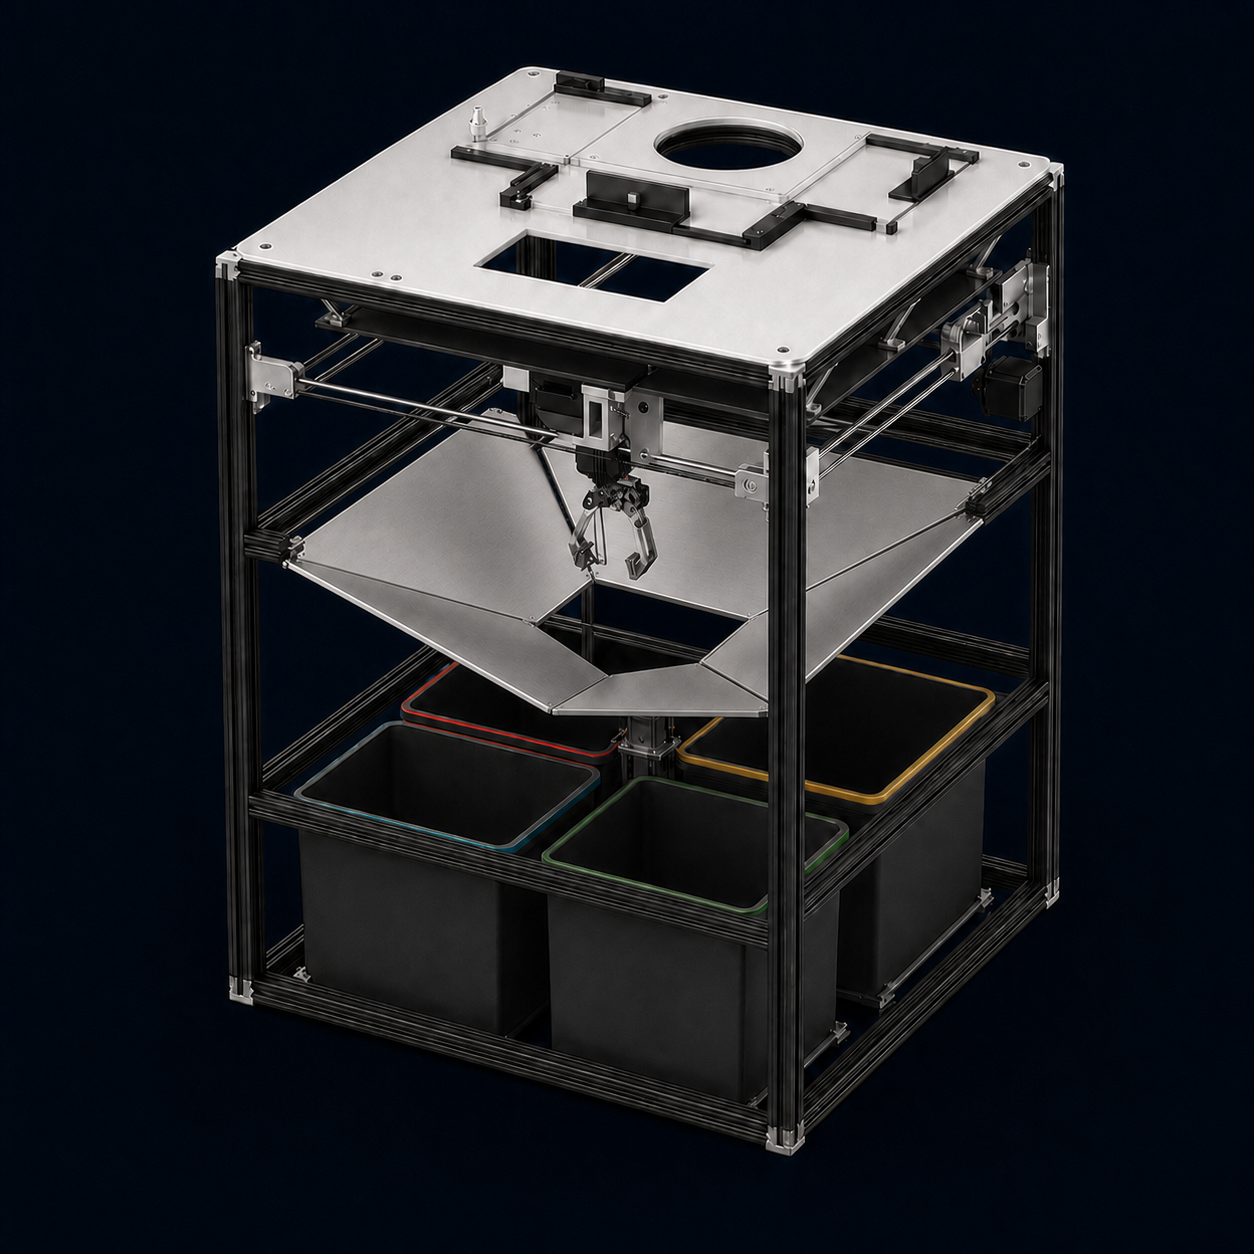
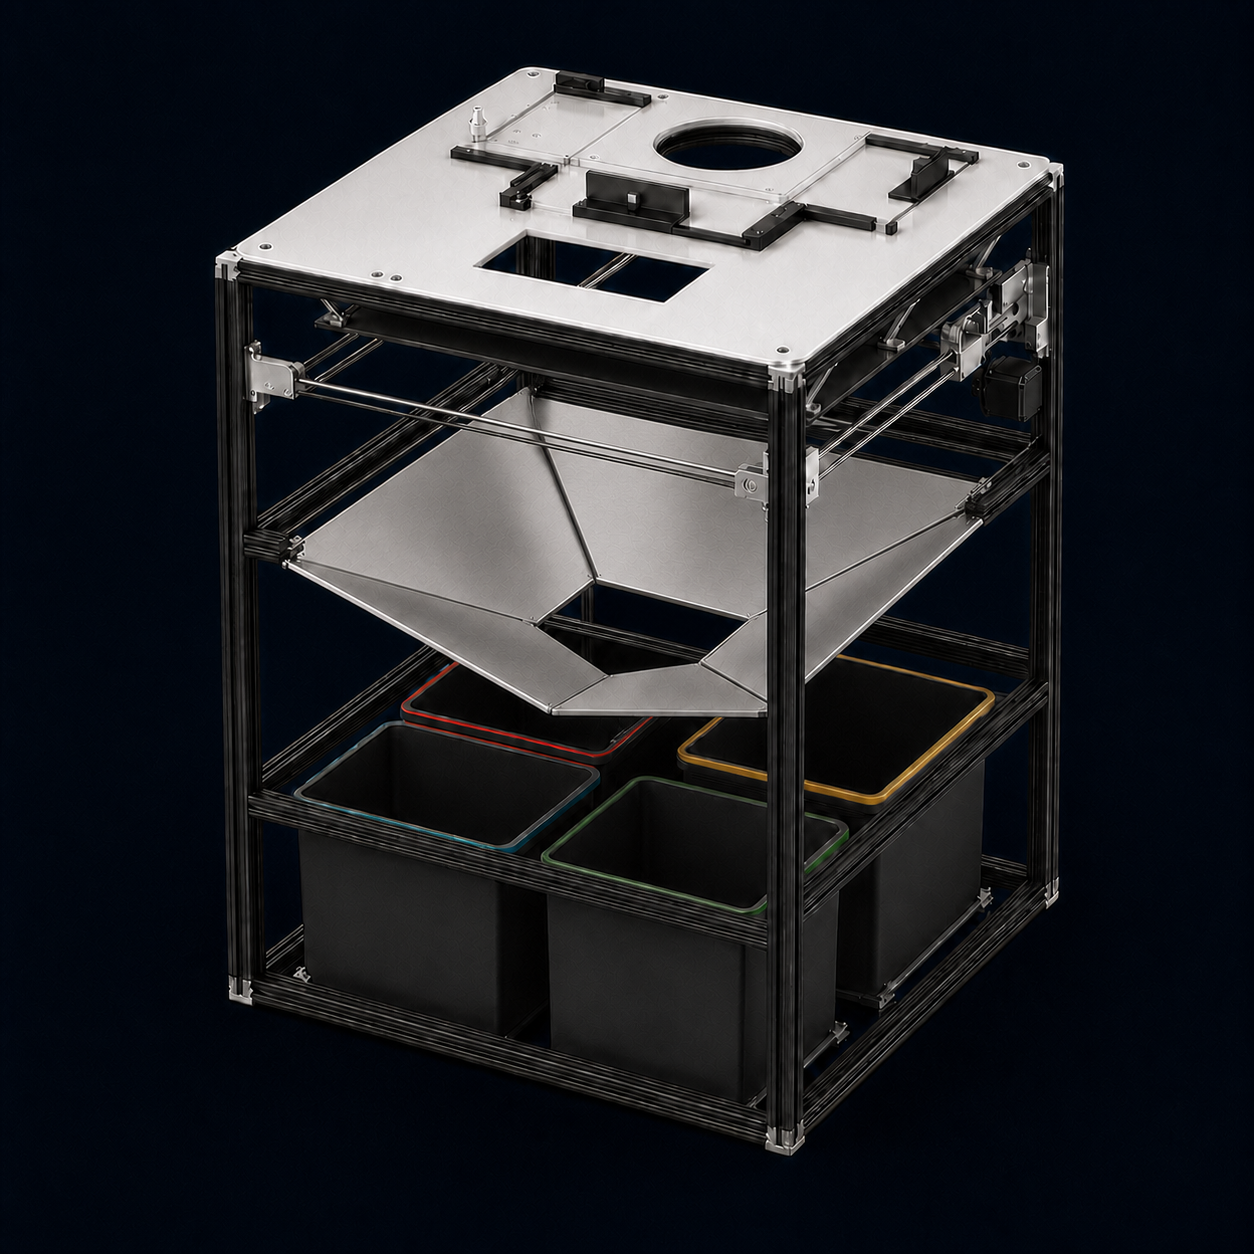
feat: update waste adapter fetch logic and enhance drawing functions for robot components

diff --git a/src/components/SortingWorkflowPlayer.vue b/src/components/SortingWorkflowPlayer.vue
@@ -239,7 +239,7 @@ async function loadWasteAdapter() {
     return
   }
   try {
-    const response = await fetch(props.wasteConfigSrc)
+    const response = await fetch(props.wasteConfigSrc, { cache: 'no-store' })
     if (!response.ok) throw new Error(`Waste adapter HTTP ${response.status}`)
     const config = await response.json()
     const adapter = resolveWasteAdapter(config)
@@ -377,6 +377,40 @@ function drawTaskObjectHeld(ctx, rotations, robotLeft, robotTop, robotScale) {
   ctx.restore()
 }
 
+const LEFT_ELBOW_SOCKET_RECT = [180, 263, 73, 39]
+const LEFT_ELBOW_CAP_RECT = [180, 289, 73, 59]
+const LEFT_JOINT_SOCKET_RECT = [168, 261, 82, 47]
+const LEFT_JOINT_CAP_RECT = [168, 289, 82, 59]
+
+function drawLeftElbowBridge(ctx, rotations, robotLeft, robotTop, robotScale) {
+  ctx.save()
+  ctx.translate(robotLeft, robotTop)
+  ctx.scale(robotScale, robotScale)
+  applyRotations(ctx, rotations)
+  ctx.translate(217, 318)
+  ctx.rotate(-.45)
+  const shellGradient = ctx.createLinearGradient(-30, -17, 28, 16)
+  shellGradient.addColorStop(0, 'rgba(246,248,248,.94)')
+  shellGradient.addColorStop(.42, 'rgba(203,208,209,.95)')
+  shellGradient.addColorStop(.72, 'rgba(132,139,142,.92)')
+  shellGradient.addColorStop(1, 'rgba(73,80,84,.86)')
+  ctx.fillStyle = shellGradient
+  ctx.beginPath()
+  ctx.ellipse(0, 0, 30, 19, 0, 0, Math.PI * 2)
+  ctx.fill()
+
+  const rimGradient = ctx.createLinearGradient(-24, -13, 22, 13)
+  rimGradient.addColorStop(0, 'rgba(255,255,255,.42)')
+  rimGradient.addColorStop(.48, 'rgba(255,255,255,.12)')
+  rimGradient.addColorStop(1, 'rgba(20,26,30,.3)')
+  ctx.strokeStyle = rimGradient
+  ctx.lineWidth = 2
+  ctx.beginPath()
+  ctx.ellipse(0, 0, 28, 17, 0, 0, Math.PI * 2)
+  ctx.stroke()
+  ctx.restore()
+}
+
 function drawRobot(ctx, pose, width, height, groundY) {
   const robotHeight = height * .72
   const robotScale = robotHeight / rig.sourceSize.height
@@ -399,14 +433,17 @@ function drawRobot(ctx, pose, width, height, groundY) {
   drawLayer(ctx, 'rightLowerArmHand', [waist, rightShoulder, rightElbow], robotLeft, robotTop, robotScale)
   drawLayer(ctx, 'leftUpperArm', [waist, leftShoulder], robotLeft, robotTop, robotScale)
   drawLayer(ctx, 'leftLowerEmptyHand', leftLower, robotLeft, robotTop, robotScale)
+  drawLeftElbowBridge(ctx, leftLower, robotLeft, robotTop, robotScale)
   if (pose.holdBottle) {
     if (props.dynamicObject) drawTaskObjectHeld(ctx, leftLower, robotLeft, robotTop, robotScale)
     else drawLayer(ctx, 'bottle', leftLower, robotLeft, robotTop, robotScale)
   }
   drawLayer(ctx, 'rightShoulderCover', [waist], robotLeft, robotTop, robotScale)
   drawLayer(ctx, 'leftShoulderCover', [waist], robotLeft, robotTop, robotScale)
-  drawLayer(ctx, 'leftElbowCover', leftLower, robotLeft, robotTop, robotScale)
-  drawLayer(ctx, 'leftJointCleanup', leftLower, robotLeft, robotTop, robotScale)
+  drawLayer(ctx, 'leftElbowCover', [waist, leftShoulder], robotLeft, robotTop, robotScale, LEFT_ELBOW_SOCKET_RECT)
+  drawLayer(ctx, 'leftJointCleanup', [waist, leftShoulder], robotLeft, robotTop, robotScale, LEFT_JOINT_SOCKET_RECT)
+  drawLayer(ctx, 'leftElbowCover', leftLower, robotLeft, robotTop, robotScale, LEFT_ELBOW_CAP_RECT)
+  drawLayer(ctx, 'leftJointCleanup', leftLower, robotLeft, robotTop, robotScale, LEFT_JOINT_CAP_RECT)
   drawLayer(ctx, 'sockets', [waist], robotLeft, robotTop, robotScale)
   drawLayer(ctx, 'bodyRightCover', [waist], robotLeft, robotTop, robotScale)
   return { robotScale, robotX, robotTop }
@@ -564,12 +601,15 @@ function drawRobotActor(ctx, pose, geometry, drawObject) {
   drawLayer(ctx, 'rightLowerArmHand', [waist, rightShoulder, rightElbow], robotLeft, robotTop, robotScale)
   drawLayer(ctx, 'leftUpperArm', [waist, leftShoulder], robotLeft, robotTop, robotScale)
   drawLayer(ctx, 'leftLowerEmptyHand', leftLower, robotLeft, robotTop, robotScale)
+  drawLeftElbowBridge(ctx, leftLower, robotLeft, robotTop, robotScale)
   if (props.dynamicObject) drawObject?.()
   else if (pose.holdBottle) drawLayer(ctx, 'bottle', leftLower, robotLeft, robotTop, robotScale)
   drawLayer(ctx, 'rightShoulderCover', [waist], robotLeft, robotTop, robotScale)
   drawLayer(ctx, 'leftShoulderCover', [waist], robotLeft, robotTop, robotScale)
-  drawLayer(ctx, 'leftElbowCover', leftLower, robotLeft, robotTop, robotScale)
-  drawLayer(ctx, 'leftJointCleanup', leftLower, robotLeft, robotTop, robotScale)
+  drawLayer(ctx, 'leftElbowCover', [waist, leftShoulder], robotLeft, robotTop, robotScale, LEFT_ELBOW_SOCKET_RECT)
+  drawLayer(ctx, 'leftJointCleanup', [waist, leftShoulder], robotLeft, robotTop, robotScale, LEFT_JOINT_SOCKET_RECT)
+  drawLayer(ctx, 'leftElbowCover', leftLower, robotLeft, robotTop, robotScale, LEFT_ELBOW_CAP_RECT)
+  drawLayer(ctx, 'leftJointCleanup', leftLower, robotLeft, robotTop, robotScale, LEFT_JOINT_CAP_RECT)
   drawLayer(ctx, 'sockets', [waist], robotLeft, robotTop, robotScale)
   drawLayer(ctx, 'bodyRightCover', [waist], robotLeft, robotTop, robotScale)
 }
@@ -620,22 +660,122 @@ function drawTaskObjectActor(ctx, state) {
   ctx.restore()
 }
 
-function drawGroundShadow(ctx, x, y, width, height, opacity) {
+const LOCAL_GROUND_SHADOW_PROFILES = {
+  robot: {
+    baseOpacity: .22,
+    widthScale: 1.66,
+    minHeightRatio: .32,
+    heightScale: 1.05,
+    offsetRatioX: .38,
+    offsetRatioY: -.02,
+    rotation: 24,
+    skew: -10,
+    blur: 6.2,
+    mainStops: [.84, .54, .24, .07],
+    secondaryStops: [.3, .1],
+    contactWidthRatio: .24,
+    contactHeightRatio: .04,
+    contactOffsetRatioX: .07,
+    contactBlur: 1.7,
+    contactStops: [.18, .06]
+  },
+  bin: {
+    baseOpacity: .2,
+    widthScale: 1.08,
+    minHeightRatio: .2,
+    heightScale: .95,
+    offsetRatioX: .22,
+    offsetRatioY: -.03,
+    rotation: 21,
+    skew: -8,
+    blur: 4.2,
+    mainStops: [.54, .31, .12, .04],
+    secondaryStops: [.2, .07],
+    contactWidthRatio: .3,
+    contactHeightRatio: .04,
+    contactOffsetRatioX: .055,
+    contactBlur: 1.5,
+    contactStops: [.2, .06]
+  },
+  waste: {
+    baseOpacity: .18,
+    widthScale: .86,
+    minHeightRatio: .24,
+    heightScale: .95,
+    offsetRatioX: .16,
+    offsetRatioY: -.04,
+    rotation: 22,
+    skew: -8,
+    blur: 3.4,
+    mainStops: [.36, .19, .07, .025],
+    secondaryStops: [.11, .04],
+    contactWidthRatio: .28,
+    contactHeightRatio: .07,
+    contactOffsetRatioX: .04,
+    contactBlur: 1.1,
+    contactStops: [.16, .045]
+  }
+}
+
+function drawGroundShadow(ctx, x, y, width, height, opacity, profileKey = 'robot') {
+  if (!opacity || opacity <= 0) return
   const localShadow = LOCAL_VISUAL.shadow
+  const profile = LOCAL_GROUND_SHADOW_PROFILES[profileKey] || LOCAL_GROUND_SHADOW_PROFILES.robot
+  const alphaScale = Math.max(0, Math.min(1, opacity / Math.max(.001, profile.baseOpacity)))
+  const shadowWidth = Math.max(1, width * profile.widthScale)
+  const shadowHeight = Math.max(1, height * profile.heightScale, width * profile.minHeightRatio)
+  const alpha = value => Math.max(0, Math.min(1, value * alphaScale))
+  const rotate = profile.rotation * Math.PI / 180
+  const skew = Math.tan(profile.skew * Math.PI / 180)
   ctx.save()
-  ctx.translate(x + localShadow.offsetX, y + localShadow.offsetY)
-  ctx.scale(Math.max(1, width / 2), Math.max(1, height / 2))
-  const gradient = ctx.createRadialGradient(-.18, -.18, .08, 0, 0, 1)
-  gradient.addColorStop(0, `rgba(0,17,29,${Math.min(.34, opacity * 1.2)})`)
-  gradient.addColorStop(.48, `rgba(0,17,29,${opacity})`)
-  gradient.addColorStop(1, 'rgba(0,17,29,0)')
-  ctx.fillStyle = gradient
-  ctx.beginPath(); ctx.ellipse(0, 0, 1, 1, -.22, 0, Math.PI * 2); ctx.fill()
+  ctx.translate(
+    x + localShadow.offsetX + width * profile.offsetRatioX,
+    y + localShadow.offsetY + height * profile.offsetRatioY
+  )
+  ctx.rotate(rotate)
+  ctx.transform(1, 0, skew, 1, 0, 0)
+  ctx.scale(shadowWidth / 2, shadowHeight / 2)
+  ctx.filter = `blur(${profile.blur}px)`
+  const mainGradient = ctx.createRadialGradient(-.56, -.12, .06, 0, 0, 1)
+  mainGradient.addColorStop(0, `rgba(0,12,20,${alpha(profile.mainStops[0])})`)
+  mainGradient.addColorStop(.3, `rgba(0,12,20,${alpha(profile.mainStops[1])})`)
+  mainGradient.addColorStop(.53, `rgba(0,12,20,${alpha(profile.mainStops[2])})`)
+  mainGradient.addColorStop(.68, `rgba(0,12,20,${alpha(profile.mainStops[3])})`)
+  mainGradient.addColorStop(.84, 'rgba(0,12,20,0)')
+  mainGradient.addColorStop(1, 'rgba(0,12,20,0)')
+  ctx.fillStyle = mainGradient
+  ctx.beginPath()
+  ctx.ellipse(0, 0, 1, 1, 0, 0, Math.PI * 2)
+  ctx.fill()
+
+  const secondaryGradient = ctx.createRadialGradient(.16, .08, .02, .16, .08, .78)
+  secondaryGradient.addColorStop(0, `rgba(0,12,20,${alpha(profile.secondaryStops[0])})`)
+  secondaryGradient.addColorStop(.38, `rgba(0,12,20,${alpha(profile.secondaryStops[1])})`)
+  secondaryGradient.addColorStop(.7, 'rgba(0,12,20,0)')
+  secondaryGradient.addColorStop(1, 'rgba(0,12,20,0)')
+  ctx.fillStyle = secondaryGradient
+  ctx.beginPath()
+  ctx.ellipse(0, 0, 1, 1, 0, 0, Math.PI * 2)
+  ctx.fill()
   ctx.restore()
+
   ctx.save()
-  ctx.globalAlpha = Math.min(localShadow.contactOpacity, opacity * 1.85)
-  ctx.fillStyle = localShadow.color
-  ctx.beginPath(); ctx.ellipse(x + 1, y + 1, Math.max(5, width * .17), Math.max(2, height * .12), 0, 0, Math.PI * 2); ctx.fill()
+  ctx.translate(x + width * profile.contactOffsetRatioX, y)
+  ctx.transform(1, 0, skew, 1, 0, 0)
+  ctx.scale(
+    Math.max(1, width * profile.contactWidthRatio / 2),
+    Math.max(1, width * profile.contactHeightRatio / 2)
+  )
+  ctx.filter = `blur(${profile.contactBlur}px)`
+  const contactGradient = ctx.createRadialGradient(0, 0, .03, 0, 0, 1)
+  contactGradient.addColorStop(0, `rgba(0,10,17,${alpha(profile.contactStops[0]) * Math.min(1, localShadow.contactOpacity / .44)})`)
+  contactGradient.addColorStop(.62, `rgba(0,10,17,${alpha(profile.contactStops[1])})`)
+  contactGradient.addColorStop(.82, 'rgba(0,10,17,0)')
+  contactGradient.addColorStop(1, 'rgba(0,10,17,0)')
+  ctx.fillStyle = contactGradient
+  ctx.beginPath()
+  ctx.ellipse(0, 0, 1, 1, 0, 0, Math.PI * 2)
+  ctx.fill()
   ctx.restore()
 }
 
@@ -928,8 +1068,8 @@ function drawScene(time = 0) {
   const objectState = resolveTaskObjectState(currentStage.value, rawProgress, shot, geometry, binGeometry)
   const showBinAlpha = shot.showBin ? 1 : 0
 
-  drawGroundShadow(ctx, robotPosition[0], robotPosition[1], geometry.visibleWidth * .9, 30, LOCAL_VISUAL.shadow.robotOpacity)
-  if (showBinAlpha > 0) drawGroundShadow(ctx, binPosition[0], binPosition[1], binGeometry.visibleWidth * .88, 26, LOCAL_VISUAL.shadow.binOpacity * showBinAlpha)
+  drawGroundShadow(ctx, robotPosition[0], robotPosition[1], geometry.visibleWidth * .9, 30, LOCAL_VISUAL.shadow.robotOpacity, 'robot')
+  if (showBinAlpha > 0) drawGroundShadow(ctx, binPosition[0], binPosition[1], binGeometry.visibleWidth * .88, 26, LOCAL_VISUAL.shadow.binOpacity * showBinAlpha, 'bin')
   if (objectState?.alpha > 0) {
     drawGroundShadow(
       ctx,
@@ -937,7 +1077,8 @@ function drawScene(time = 0) {
       objectState.shadowY,
       Math.max(24, objectState.bounds.width * objectState.shadowScale),
       Math.max(9, objectState.bounds.height * .16 * objectState.shadowScale),
-      objectState.shadowOpacity * objectState.alpha
+      objectState.shadowOpacity * objectState.alpha,
+      'waste'
     )
   }
 
@@ -1000,8 +1141,8 @@ async function loadAssets() {
   errorLogged = false
   try {
     const [rigResponse, timelineResponse, smartBinImage, sceneAssetEntries] = await Promise.all([
-      fetch(props.rigSrc),
-      fetch(props.timelineSrc),
+      fetch(props.rigSrc, { cache: 'no-store' }),
+      fetch(props.timelineSrc, { cache: 'no-store' }),
       loadImage(props.binVisualSrc || SMART_BIN_PLACE_VISUAL.src),
       Promise.all(ROBOT_TASK_ASSET_SRCS.map(async src => [src, await loadImage(src)]))
     ])

diff --git a/src/config/smart-bin-internal-layer-registry.js b/src/config/smart-bin-internal-layer-registry.js
@@ -209,7 +209,7 @@ export const SMART_BIN_CUTAWAY_RASTER_V3 = freeze({
       sourceSize: { width: 1254, height: 1254 },
       sourceBbox: [0, 0, 1254, 1254],
       order: 11,
-      reviewStatus: 'passed_downward_fold_kinematics'
+      reviewStatus: 'passed_downward_fold_kinematics_no_dynamic_mechanism'
     },
     carriageLift: {
       src: `${RASTER_V3_BASE}carriage-lift-v3.png`,
